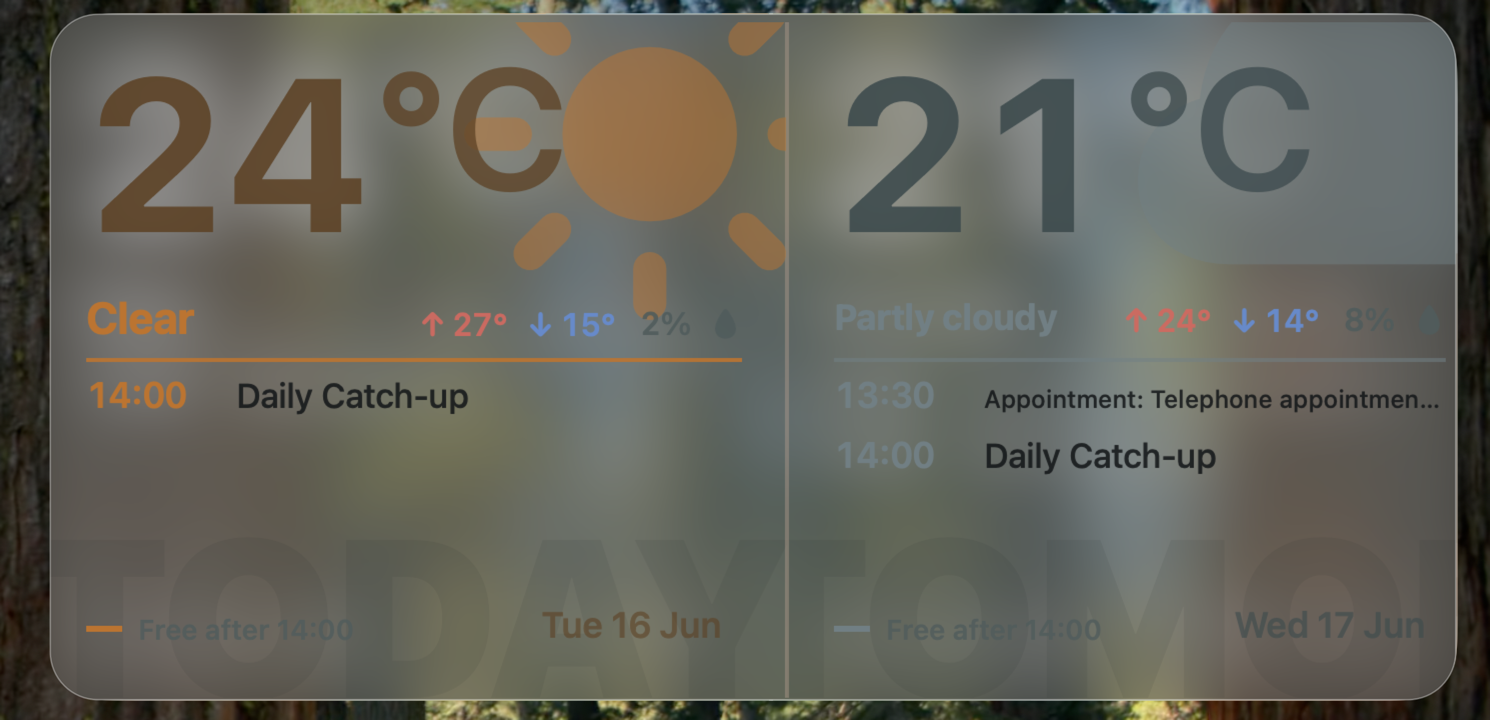
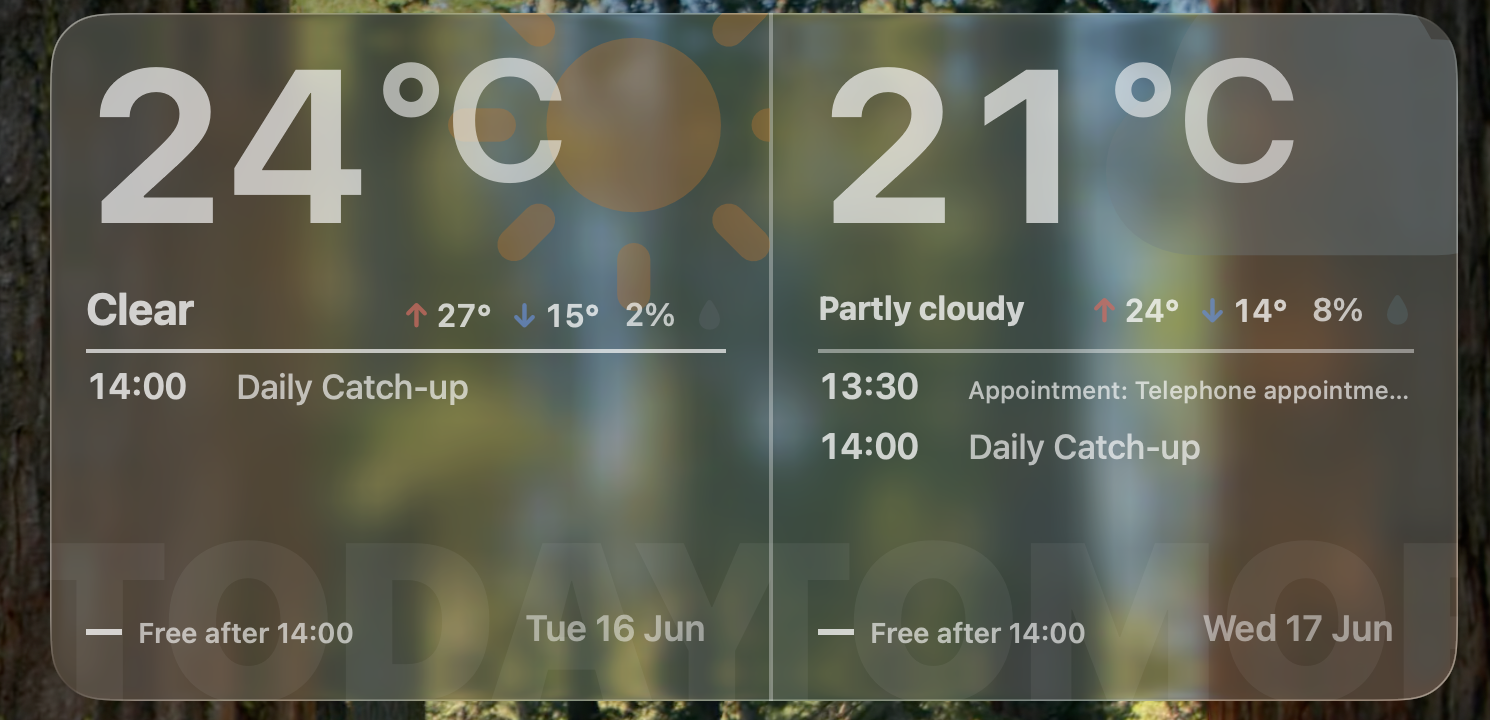
Use real Apple Glass widget captures

diff --git a/README.md b/README.md
@@ -22,9 +22,9 @@ Daycast syncs Calendar events and local weather into a shared app-group snapshot
 
 For photo, aerial, and dynamic wallpapers, Daycast switches desktop widgets into Apple Glass while keeping the forecast art and temperature accents readable.
 
-| Sunny | Cloudy | Rain |
-| --- | --- | --- |
-| ![Sunny Apple Glass Daycast widget](docs/images/daycast-widget-glass-sunny.png) | ![Cloudy Apple Glass Daycast widget](docs/images/daycast-widget-glass-cloudy.png) | ![Rainy Apple Glass Daycast widget](docs/images/daycast-widget-glass-rain.png) |
+| Sunny | Cloudy |
+| --- | --- |
+| ![Sunny Apple Glass Daycast widget](docs/images/daycast-widget-glass-sunny.png) | ![Cloudy Apple Glass Daycast widget](docs/images/daycast-widget-glass-cloudy.png) |
 
 ## Weather States
 